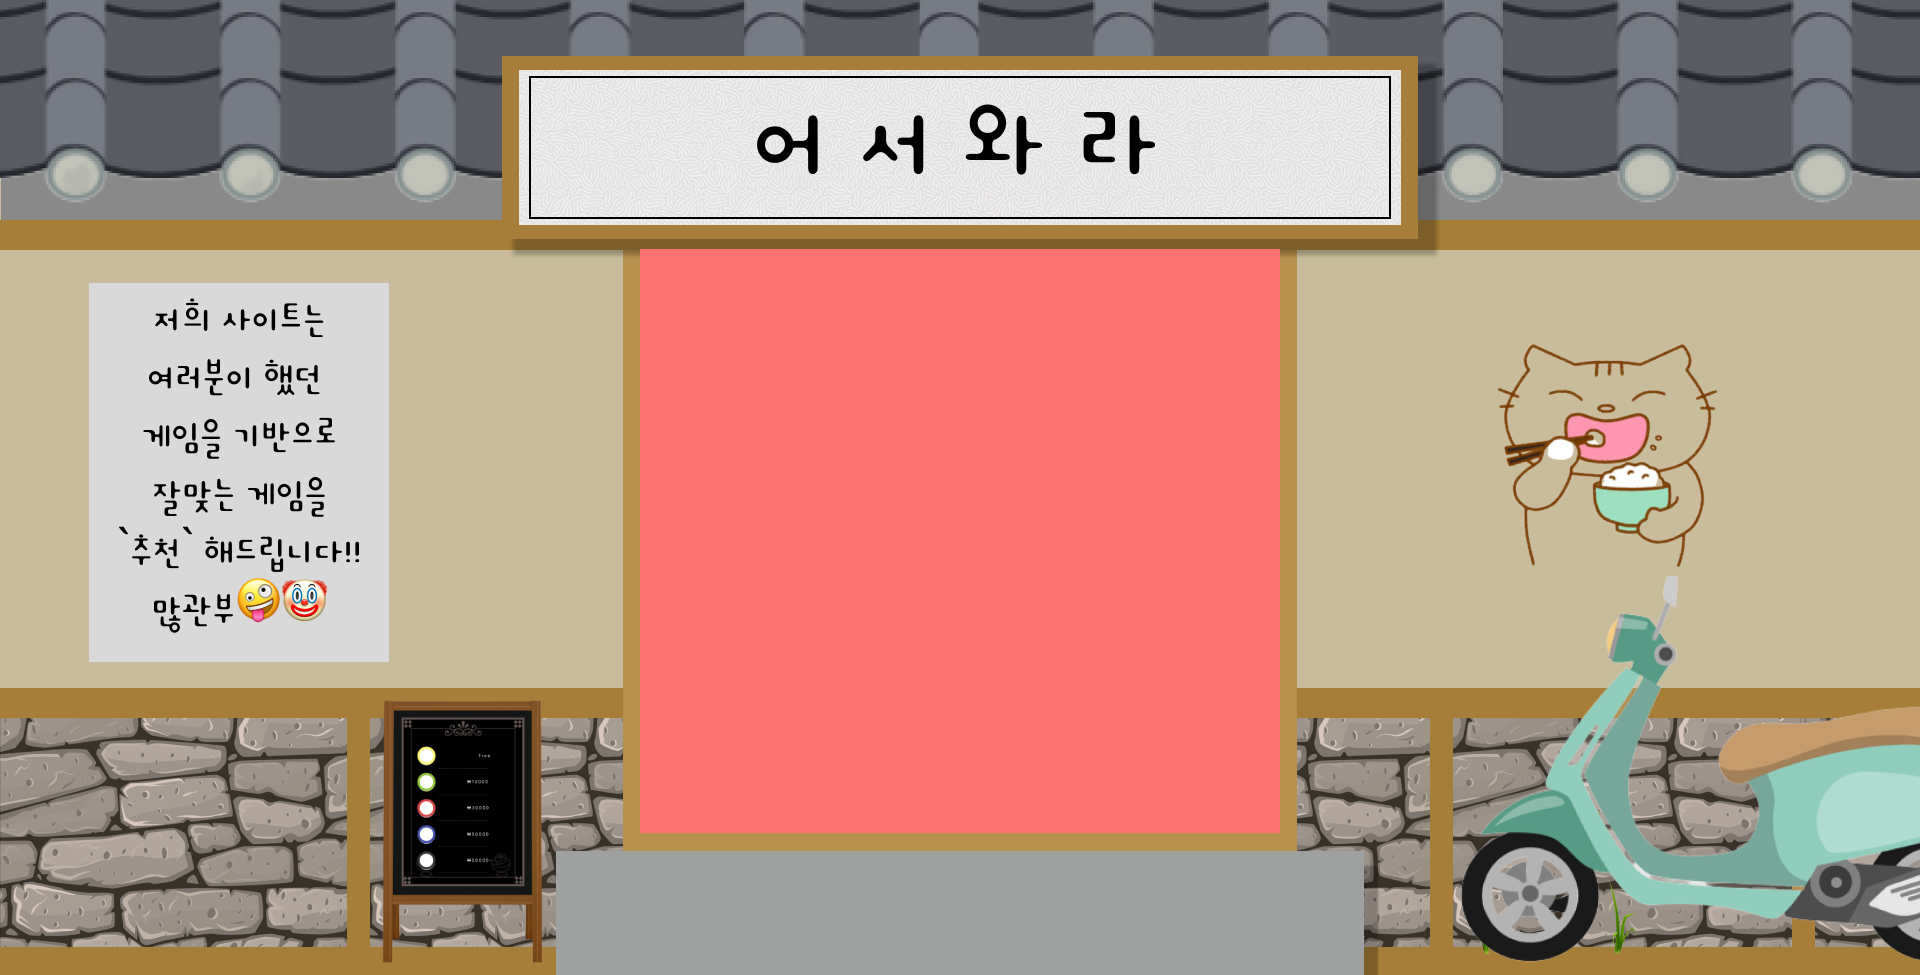
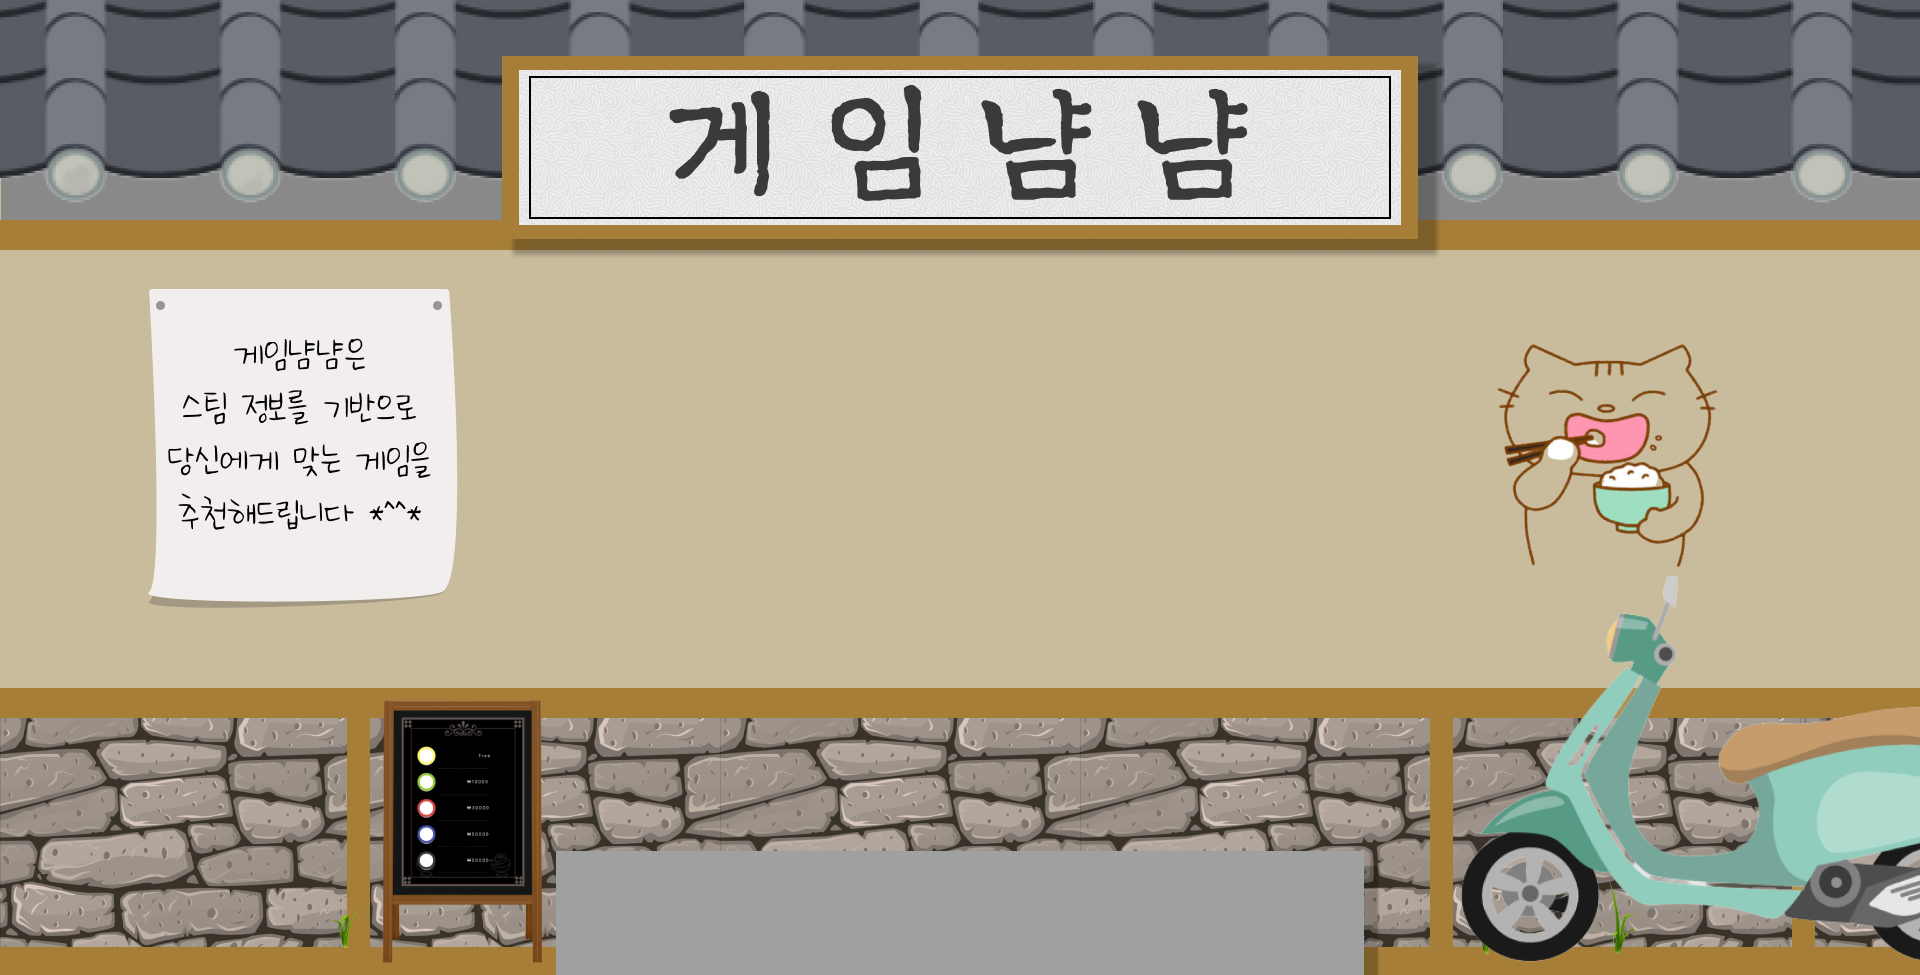
feat:get api
Former-commit-id: 40325a609d0ce35c7bce591c622213d069eee0c4 [formerly c1efeab0d7eebf77b18057f33b170957b63b74a7]
Former-commit-id: 8f15c1f9f93634a43dbbc10192464be749b3303b

Changed region(s): [[0.3125, 0.2462, 0.6875, 0.8923], [0.0312, 0.2769, 0.25, 0.6769], [0.3438, 0.0923, 0.6562, 0.2154]]

diff --git a/front/src/pages/mainpage/MainPage.jsx b/front/src/pages/mainpage/MainPage.jsx
@@ -1,36 +1,40 @@
 import React, { useRef, useState, useEffect } from 'react';
 import { useRecoilState } from 'recoil';
-import { userGameCount } from '../../../recoil/user/atoms';
+import { userDetail } from '../../../recoil/user/atoms';
 import gsap from 'gsap';
 import { useNavigate, useLocation } from 'react-router-dom';
 import axios from 'axios';
 import doorSound from '../../assets/doorSound.wav';
-import bellSound from '../../assets/bellSound.wav';
-export default function Mainpage() {
-  const location = useLocation();
-  console.log(location)
-  useEffect(() => {
-    const searchParams = new URLSearchParams(location.search);
-    const steamId = searchParams.get('steam_id');
-    console.log(steamId);
-  }, [location]);
-  const audioRef = useRef(null);
-  const [gameCount, setGameCount] = useRecoilState(userGameCount);
-  // useEffect(() => {
-  //   axios
-  //     .get('http://127.0.0.1:8000/login')
-  //     .then(function (response) {
-  //       console.log(response);
-  //     })
-  //     .catch(function (error) {
-  //       console.log(error);
-  //     });
-  // }, []);
 
+export default function Mainpage() {
+  const [Detail, setDetail] = useRecoilState(userDetail);
+  const location = useLocation();
+  const audioRef = useRef(null);
   const leftDoorRef = useRef(null);
   const rightDoorRef = useRef(null);
   const [isLogin, setLogin] = useState(false);
   const navigate = useNavigate();
+
+  useEffect(() => {
+    const searchParams = new URLSearchParams(location.search);
+    const steamId = searchParams.get('steam_id');
+    // const steamId = '76561198010254569';
+    console.log(steamId);
+    axios
+      .get(`http://127.0.0.1:8000/games/count/${steamId}`)
+      .then(function (response) {
+        console.log(response.data);
+        if (response.data >= 5) {
+          setDetail([steamId, true]);
+        } else {
+          setDetail([steamId, false]);
+        }
+        doorOpen();
+      })
+      .catch(function (err) {
+        console.log(err);
+      });
+  }, []);
 
   const navigateToGame = () => {
     if (isLogin) {
@@ -45,31 +49,12 @@ export default function Mainpage() {
       .to(leftDoorRef.current, { duration: 1, x: -250 })
       .to(rightDoorRef.current, { duration: 1, x: 250 }, '-=1');
     setLogin(true);
-    axios
-      .get('http://127.0.0.1:8000/login')
-      .then(function (response) {
-        console.log(response);
-        setLogin(true);
-
-        axios
-          .get(`http://127.0.0.1:8000/games/count/${response}`)
-          .then(function (res) {
-            console.log(res);
-            if (res >= 5) {
-              setGameCount(true);
-            } else {
-              setGameCount(false);
-            }
-          })
-          .catch(function (err) {
-            console.log(err);
-          });
-      })
-      .catch(function (error) {
-        console.log(error);
-      });
   }
 
+  function goToSteam() {
+    window.location.href =
+      'https://steamcommunity.com/openid/login?openid.ns=http%3A%2F%2Fspecs.openid.net%2Fauth%2F2.0&openid.mode=checkid_setup&openid.return_to=https%3A%2F%2Fj8c204.p.ssafy.io%2Fapi%2Flogin%2Fprocesslogin&openid.realm=https%3A%2F%2Fj8c204.p.ssafy.io%2Fapi%2Flogin%2Fprocesslogin&openid.identity=http%3A%2F%2Fspecs.openid.net%2Fauth%2F2.0%2Fidentifier_select&openid.claimed_id=http%3A%2F%2Fspecs.openid.net%2Fauth%2F2.0%2Fidentifier_select';
+  }
   return (
     <div className="mainPageImg">
       <div className="kanban"></div>
@@ -81,18 +66,17 @@ export default function Mainpage() {
           <div className="insideDoor"></div>
         </div>
         <audio ref={audioRef}>
-          <source src={bellSound} type="audio/wav" />
+          <source src={doorSound} type="audio/wav" />
         </audio>
       </div>
       {isLogin ? (
-        <div>로그인 됨</div>
+        <div>
+        </div>
       ) : (
-        <a href="https://steamcommunity.com/openid/login?openid.ns=http%3A%2F%2Fspecs.openid.net%2Fauth%2F2.0&openid.mode=checkid_setup&openid.return_to=https%3A%2F%2Fj8c204.p.ssafy.io%2Fapi%2Flogin%2Fprocesslogin&openid.realm=https%3A%2F%2Fj8c204.p.ssafy.io%2Fapi%2Flogin%2Fprocesslogin&openid.identity=http%3A%2F%2Fspecs.openid.net%2Fauth%2F2.0%2Fidentifier_select&openid.claimed_id=http%3A%2F%2Fspecs.openid.net%2Fauth%2F2.0%2Fidentifier_select">
-          <div className="steamLoginBtn" onClick={doorOpen}>
-            <div className="steamTxt">continue with steam login</div>
-            <div className="steamImg"></div>
-          </div>
-        </a>
+        <div className="steamLoginBtn" onClick={goToSteam}>
+          <div className="steamTxt">continue with steam login</div>
+          <div className="steamImg"></div>
+        </div>
       )}
     </div>
   );

diff --git a/front/src/components/PickedDish.jsx b/front/src/components/PickedDish.jsx
@@ -1,8 +1,8 @@
 import React from 'react';
 import { useRecoilState } from 'recoil';
-import { userGame } from '../../recoil/user/atoms'
-export default function Dish({showInfo, id, price, image }) {
-  const [pickedGame, setPickedGame] = useRecoilState(userGame)
+import { userGame } from '../../recoil/user/atoms';
+export default function Dish({ showInfo, id, price, image }) {
+  const [pickedGame, setPickedGame] = useRecoilState(userGame);
   const changeColor = (price) => {
     if (price === 0) {
       return '#FEF874';
@@ -17,12 +17,12 @@ export default function Dish({showInfo, id, price, image }) {
     }
   };
   const handleClick = () => {
-    showInfo(id)
-  }
+    showInfo(id);
+  };
   const deleteGame = () => {
-    const newPicked = pickedGame.filter((game) => game.appid !== id)
-    setPickedGame(newPicked)
-  }
+    const newPicked = pickedGame.filter((game) => game.appid !== id);
+    setPickedGame(newPicked);
+  };
   const backgroundColor = changeColor(price);
   return (
     <div className="gamePlate">
@@ -34,23 +34,7 @@ export default function Dish({showInfo, id, price, image }) {
               style={{ backgroundImage: `url(${image})` }}
             >
               <div className="gamePicHover flex justify-between">
-                <div className='w-1/2' onClick={handleClick}>
-                  <svg
-                    xmlns="http://www.w3.org/2000/svg"
-                    fill="none"
-                    viewBox="0 0 24 24"
-                    strokeWidth={2}
-                    stroke="currentColor"
-                    className="searchIcon1 w-12 h-12 stroke-2 text-white text-xl"
-                  >
-                    <path
-                      strokeLinecap="round"
-                      strokeLinejoin="round"
-                      d="M21 21l-5.197-5.197m0 0A7.5 7.5 0 105.196 5.196a7.5 7.5 0 0010.607 10.607z"
-                    />
-                  </svg>
-                </div>
-                <div className='w-1/2' onClick={deleteGame}>
+              <div className="w-1/2" onClick={deleteGame}>
                   <svg
                     xmlns="http://www.w3.org/2000/svg"
                     fill="none"
@@ -63,6 +47,22 @@ export default function Dish({showInfo, id, price, image }) {
                       strokeLinecap="round"
                       strokeLinejoin="round"
                       d="M14.74 9l-.346 9m-4.788 0L9.26 9m9.968-3.21c.342.052.682.107 1.022.166m-1.022-.165L18.16 19.673a2.25 2.25 0 01-2.244 2.077H8.084a2.25 2.25 0 01-2.244-2.077L4.772 5.79m14.456 0a48.108 48.108 0 00-3.478-.397m-12 .562c.34-.059.68-.114 1.022-.165m0 0a48.11 48.11 0 013.478-.397m7.5 0v-.916c0-1.18-.91-2.164-2.09-2.201a51.964 51.964 0 00-3.32 0c-1.18.037-2.09 1.022-2.09 2.201v.916m7.5 0a48.667 48.667 0 00-7.5 0"
+                    />
+                  </svg>
+                </div>
+                <div className="w-1/2" onClick={handleClick}>
+                  <svg
+                    xmlns="http://www.w3.org/2000/svg"
+                    fill="none"
+                    viewBox="0 0 24 24"
+                    strokeWidth={2}
+                    stroke="currentColor"
+                    className="searchIcon1 w-12 h-12 stroke-2 text-white text-xl"
+                  >
+                    <path
+                      strokeLinecap="round"
+                      strokeLinejoin="round"
+                      d="M21 21l-5.197-5.197m0 0A7.5 7.5 0 105.196 5.196a7.5 7.5 0 0010.607 10.607z"
                     />
                   </svg>
                 </div>

diff --git a/front/src/pages/gamepage/GamePage.jsx b/front/src/pages/gamepage/GamePage.jsx
@@ -3,8 +3,8 @@ import Dish from '../../components/Dish';
 import { Droppable, DragDropContext, Draggable } from 'react-beautiful-dnd';
 import Receipt from '../../components/Receipt';
 import { useNavigate } from 'react-router-dom';
-import { useRecoilState } from 'recoil';
-import { userGame } from '../../../recoil/user/atoms';
+import { useRecoilState, useRecoilValue } from 'recoil';
+import { userGame, userDetail } from '../../../recoil/user/atoms';
 import axios from 'axios';
 import DetailModal from '../../components/DetailModal';
 import PickedDish from '../../components/PickedDish';
@@ -18,27 +18,43 @@ export default function Gamepage() {
   const [gameDetail, setGameDetail] = useState('');
   const [firstIdDict, setFirstIdDict] = useState({});
   const [secondIdDict, setSecondIdDict] = useState({});
+  const userDetails = useRecoilValue(userDetail);
   const showInfo = (id) => {
     setInfo(!Info);
     setGameDetail(id);
   };
 
   useEffect(() => {
-    axios
-      .post('http://127.0.0.1:8000/games/test')
-      .then(function (response) {
-        console.log(response.data);
-        setGameData(response.data);
-        setDataLoaded(true);
-        console.log(dataLoaded);
-      })
-      .catch(function (error) {
-        console.log(error);
-      });
+    console.log('id', userDetails[0]);
+    console.log(userDetails[1]);
+    if (userDetails[1]) {
+      axios
+        .post('http://127.0.0.1:8000/games/all/yes?steamId=' + userDetails[0])
+        .then(function (response) {
+          console.log(response.data);
+          setGameData(response.data);
+          setDataLoaded(true);
+          console.log(dataLoaded);
+        })
+        .catch(function (error) {
+          console.log(error);
+        });
+    } else {
+      axios
+        .post('http://127.0.0.1:8000/games/all/no')
+        .then(function (response) {
+          console.log(response.data);
+          setGameData(response.data);
+          setDataLoaded(true);
+          console.log(dataLoaded);
+        })
+        .catch(function (error) {
+          console.log(error);
+        });
+    }
   }, []);
   // 첫번 째 스시 바
   useEffect(() => {
-    console.log(dataLoaded);
     if (dataLoaded) {
       let bannerLeft = 0;
       let first = 1;

diff --git a/front/recoil/user/atoms.jsx b/front/recoil/user/atoms.jsx
@@ -7,16 +7,17 @@ export const DEFAULT_USERGAME = {
   name: null,
 };
 
-export const DEFAULT_USERGAMECOUNT = {
+export const DEFAULT_USER = {
+  userid: null,
   isFive: null,
-}
+};
 
 export const userGame = atom({
   key: 'userGame',
   default: [],
 });
 
-export const userGameCount = atom({
-  key: 'userGameCount',
-  default: null,
-})
+export const userDetail = atom({
+  key: 'userDetail',
+  default: [],
+});

diff --git a/front/src/index.css b/front/src/index.css
@@ -23,6 +23,7 @@
   height: 8vh;
   width: 26vw;
   bottom: 6px;
+  margin:auto;
 }
 
 .steamTxt {
@@ -57,7 +58,7 @@
   width: 33.4vw;
   height: 63vh;
   background-image: url(assets/sushiEnter.png);
-  bottom: 11vh;
+  bottom: 9.5vh;
   display: block;
   justify-content: space-between;
   z-index: 1;
